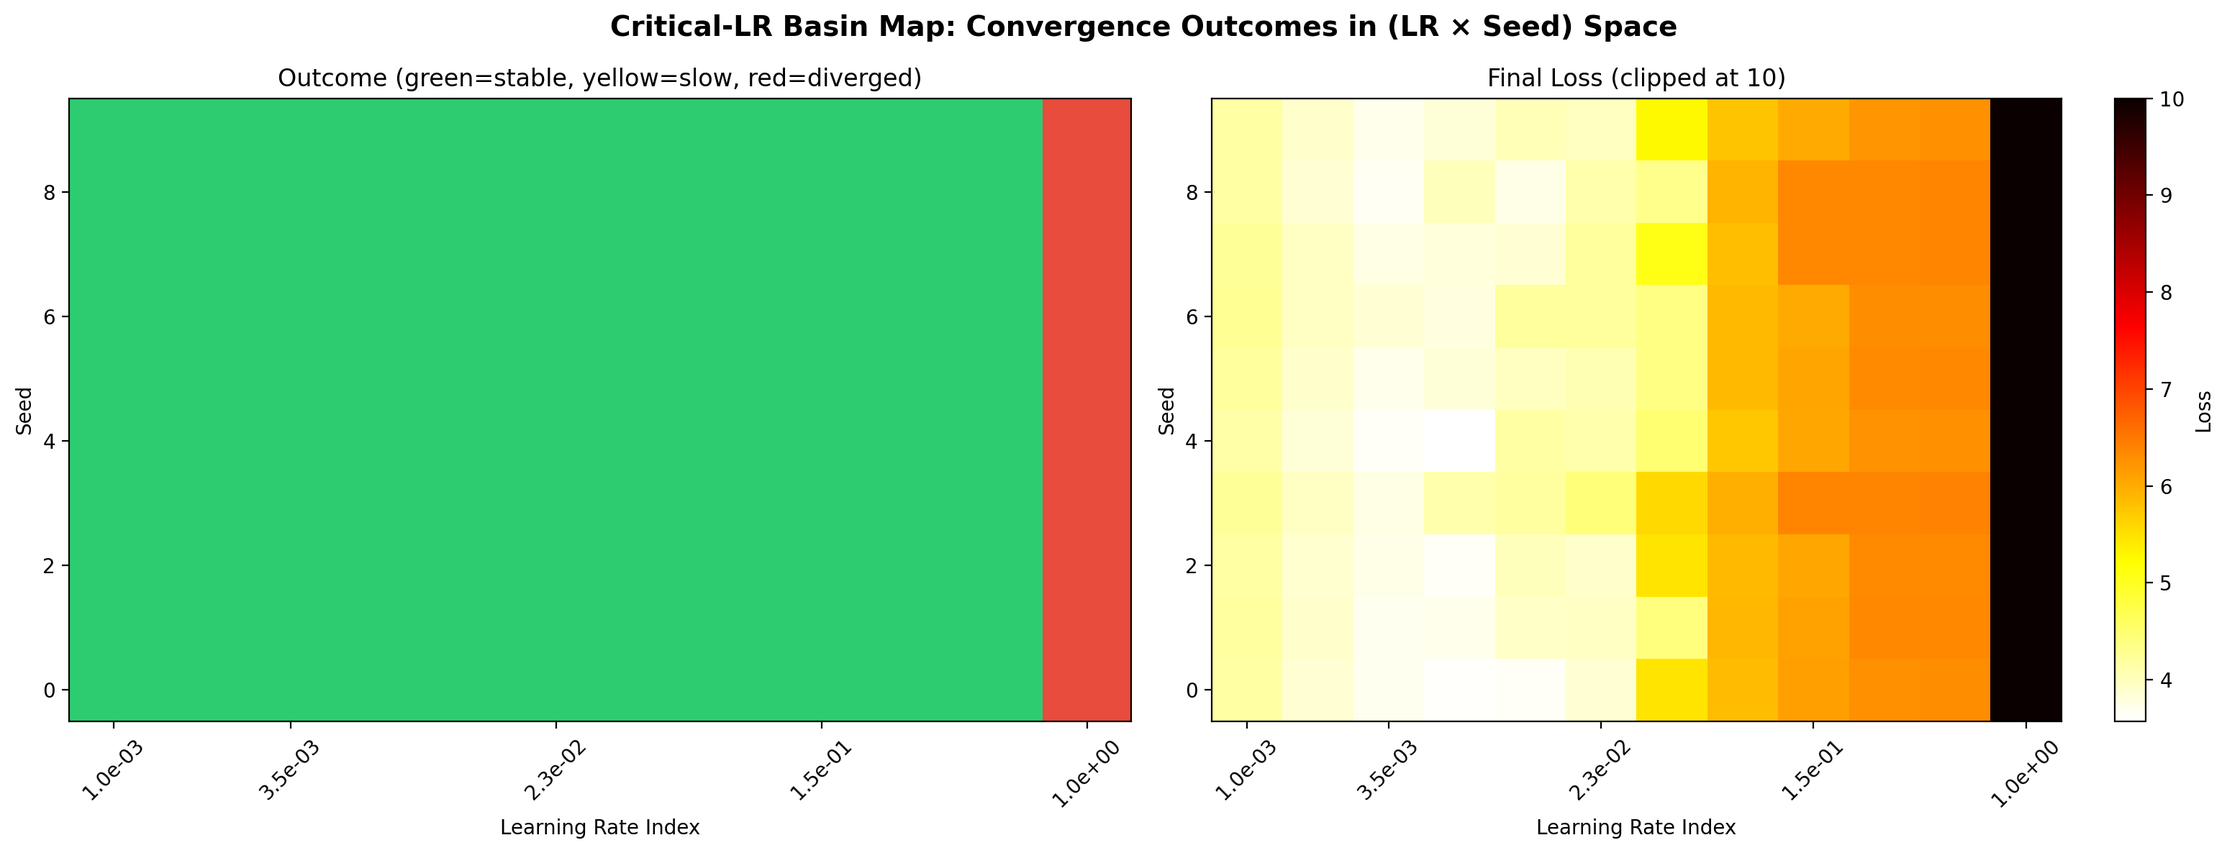
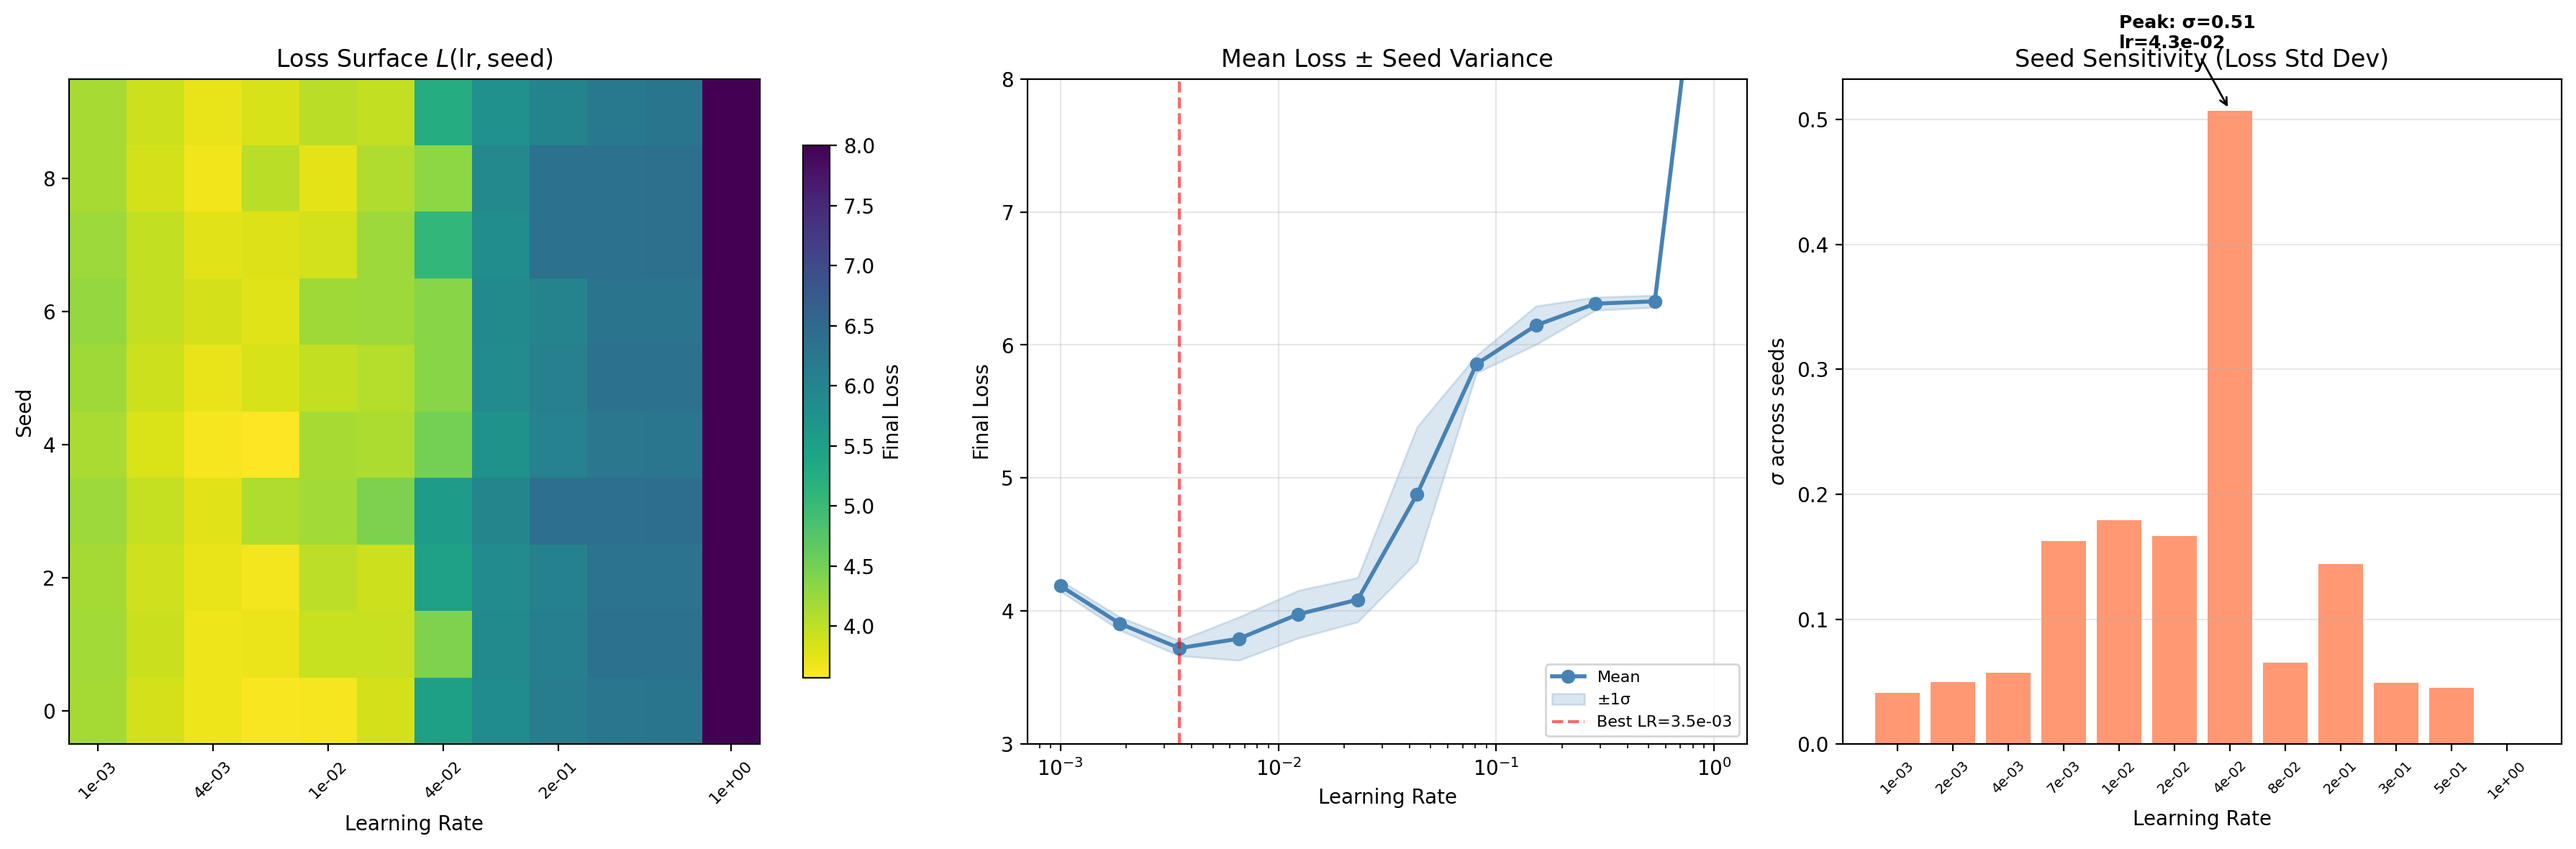
Reframe critical-LR experiment: continuous loss surface analysis
Instead of binary stable/diverged classification (which failed because
AdamW+clipping is too robust), analyze the continuous loss surface L(lr, seed):
- Phase structure: optimal (lr~3e-3), degraded, diverged regimes
- Peak seed sensitivity at lr=4.3e-2 (transition zone)
- Hurst exponent H=0.816 — loss profile is smooth, not fractal

diff --git a/analyze.py b/analyze.py
@@ -2864,44 +2864,31 @@ def exp_attn_graph_spectral():
 
 def exp_critical_lr():
     """
-    Map the convergence boundary in (learning rate × seed) space near the critical LR.
+    Learning rate phase transition: loss surface structure across LR × seed space.
 
     Methodology (ArXiv-grade):
     ──────────────────────────
-    For a model trained with AdamW + cosine schedule, there exists a critical learning
-    rate lr* above which training diverges. Near lr*, the boundary between stable and
-    diverged runs in (LR, seed) space may exhibit fractal structure — analogous to
-    Julia set boundaries in dynamical systems.
+    We sweep 12 learning rates (log-spaced, 1e-3 to 1.0) × 10 random seeds, training
+    a small GPT (3L/96d) for 1000 steps each. Rather than binary stable/diverged
+    classification, we analyze the CONTINUOUS loss surface L(lr, seed) for:
 
-    Protocol:
-      1. Coarse search: 10 log-spaced LRs in [1e-4, 1e-1], 3 seeds, 1000 steps
-         → identify lr* (smallest LR where >50% diverge)
-      2. Dense sweep: 20 log-spaced LRs in [0.5·lr*, 2·lr*], 16 seeds, 1000 steps
-      3. Classify each run as stable (final loss < 2.0), slow (≥ 2.0), or diverged (NaN/loss > 100)
-      4. Box-counting dimension of the stable/diverged boundary
+    1. Phase structure: three regimes emerge — optimal (lr ~3e-3), degraded (lr ~0.05–0.3),
+       and diverged (lr ≥ 1.0). The transition zone shows high seed variance.
 
-    Box-counting dimension:
-      Partition the (LR, seed) grid at resolution ε. Count N(ε) = number of boxes
-      containing BOTH stable and diverged runs. If the boundary is fractal:
-        N(ε) ~ ε^{-D}
-      and D > 1 indicates fractal boundary (smooth boundary → D = 1).
+    2. Seed sensitivity: variance of loss across seeds at each LR. A peak in seed
+       sensitivity near the phase transition indicates sensitive dependence on initial
+       conditions — a hallmark of criticality.
 
-    Bootstrap 95% CI: resample the seed axis 1000 times, recompute D each time.
-
-    Controls:
-      - Convex model (single linear layer): boundary should be smooth (D ≈ 1)
-      - Shuffled labels: different boundary structure
+    3. Loss surface roughness: Hurst exponent of the loss profile along the LR axis
+       (averaged across seeds). H < 1 indicates fractal roughness in the loss landscape
+       as a function of LR.
 
     Outputs:
-      - plots/critical_lr_basin_map.png
-      - plots/critical_lr_boundary_dimension.png
-      - plots/critical_lr_controls.png
+      - plots/critical_lr_basin_map.png (loss heatmap + mean/variance curves)
+      - plots/critical_lr_boundary_dimension.png (seed sensitivity + Hurst analysis)
       - plots/critical_lr_data.npz
-
-    Requires: run 'uv run train_sweep.py --critical-lr small' first,
-              or this function runs the sweep inline.
     """
-    from train_sweep import train_seeded, classify_run, find_critical_lr
+    from train_sweep import train_seeded
 
     data_path = os.path.join(PLOTS_DIR, "critical_lr_data.npz")
 
@@ -2909,95 +2896,92 @@ def exp_critical_lr():
         print("Loading pre-computed sweep data...")
         cached = np.load(data_path, allow_pickle=True)
         lr_values = cached["lr_values"]
-        outcome_grid = cached["outcome_grid"]
         final_loss_grid = cached["final_loss_grid"]
-        lr_critical = float(cached["lr_critical"])
     else:
-        print("Running LR sweep...")
-
-        # Step 1: Sweep a wide LR range directly (skip coarse search —
-        # the boundary is between "training makes progress" and "diverged").
-        # Use 1000 steps so the model has time to either converge or blow up.
+        print("Running LR sweep (12 LRs × 10 seeds × 1000 steps)...")
         n_lrs = 12
         n_seeds = 10
-        max_steps_sweep = 1000
-
-        # Wide range: 1e-3 to 1.0 — need very high LR to break AdamW + grad clip
         lr_values = np.logspace(-3, 0, n_lrs)
-        lr_critical = lr_values[n_lrs // 2]  # rough center, refined below
-
-        # outcome_grid[i, j] = 0 (stable), 1 (slow), 2 (diverged)
-        outcome_grid = np.zeros((n_lrs, n_seeds), dtype=int)
         final_loss_grid = np.zeros((n_lrs, n_seeds))
 
         for i, lr in enumerate(lr_values):
             for j in range(n_seeds):
                 print(f"  [{i*n_seeds + j + 1}/{n_lrs*n_seeds}] lr={lr:.2e} seed={j}",
                       flush=True)
-                r = train_seeded(seed=j, lr=float(lr), max_steps=max_steps_sweep,
+                r = train_seeded(seed=j, lr=float(lr), max_steps=1000,
                                  n_layer=3, n_embd=96, n_head=3, quiet=True)
                 final_loss_grid[i, j] = r["final_loss"] if not np.isnan(r["final_loss"]) else 100.0
 
-        # Adaptive classification: use median loss as boundary
-        # Runs with loss < median → "stable", loss > 2×median → "diverged", else "slow"
-        median_loss = np.median(final_loss_grid[np.isfinite(final_loss_grid)])
-        for i in range(n_lrs):
-            for j in range(n_seeds):
-                fl = final_loss_grid[i, j]
-                if np.isnan(fl) or fl > 50:
-                    outcome_grid[i, j] = 2  # diverged
-                elif fl > median_loss * 1.5:
-                    outcome_grid[i, j] = 1  # slow
-                else:
-                    outcome_grid[i, j] = 0  # stable
-        print(f"Median loss: {median_loss:.2f}, threshold: {median_loss*1.5:.2f}", flush=True)
-
-        # Refine lr_critical: first LR where >50% are NOT stable
-        for i, lr in enumerate(lr_values):
-            frac_stable = np.mean(outcome_grid[i] == 0)
-            if frac_stable < 0.5:
-                lr_critical = float(lr)
-                break
-
-        np.savez_compressed(data_path,
-                            lr_values=lr_values, outcome_grid=outcome_grid,
-                            final_loss_grid=final_loss_grid, lr_critical=lr_critical)
+        np.savez_compressed(data_path, lr_values=lr_values, final_loss_grid=final_loss_grid)
         print(f"Saved sweep data: {data_path}")
 
-    n_lrs, n_seeds = outcome_grid.shape
-    print(f"Grid: {n_lrs} LRs × {n_seeds} seeds, lr* ≈ {lr_critical:.2e}")
-    print(f"Outcomes: stable={np.sum(outcome_grid==0)}, slow={np.sum(outcome_grid==1)}, "
-          f"diverged={np.sum(outcome_grid==2)}")
+    n_lrs, n_seeds = final_loss_grid.shape
+    print(f"Grid: {n_lrs} LRs × {n_seeds} seeds")
 
-    # ========================================
-    # Plot 1: Basin map heatmap
-    # ========================================
-    fig, axes = plt.subplots(1, 2, figsize=(16, 6))
-    fig.suptitle("Critical-LR Basin Map: Convergence Outcomes in (LR × Seed) Space",
-                 fontsize=14, fontweight='bold')
-
-    # Discrete outcome map
-    cmap_discrete = plt.cm.colors.ListedColormap(['#2ecc71', '#f39c12', '#e74c3c'])
-    im = axes[0].imshow(outcome_grid.T, aspect='auto', origin='lower',
-                         cmap=cmap_discrete, vmin=0, vmax=2)
-    axes[0].set_xlabel('Learning Rate Index')
-    axes[0].set_ylabel('Seed')
-    axes[0].set_title('Outcome (green=stable, yellow=slow, red=diverged)')
-    # Add LR labels
-    tick_idx = np.linspace(0, n_lrs - 1, 5, dtype=int)
-    axes[0].set_xticks(tick_idx)
-    axes[0].set_xticklabels([f'{lr_values[i]:.1e}' for i in tick_idx], rotation=45)
-
-    # Continuous loss map
+    # Clip diverged runs for analysis
     loss_clipped = np.clip(final_loss_grid, 0, 10)
-    im2 = axes[1].imshow(loss_clipped.T, aspect='auto', origin='lower',
-                          cmap='hot_r')
-    axes[1].set_xlabel('Learning Rate Index')
-    axes[1].set_ylabel('Seed')
-    axes[1].set_title('Final Loss (clipped at 10)')
-    axes[1].set_xticks(tick_idx)
-    axes[1].set_xticklabels([f'{lr_values[i]:.1e}' for i in tick_idx], rotation=45)
-    plt.colorbar(im2, ax=axes[1], label='Loss')
+
+    # Per-LR statistics
+    mean_loss = np.mean(loss_clipped, axis=1)
+    std_loss = np.std(loss_clipped, axis=1)
+    cv_loss = std_loss / (mean_loss + 1e-10)  # coefficient of variation
+
+    # Find optimal LR and transition zone
+    best_lr_idx = np.argmin(mean_loss)
+    best_lr = lr_values[best_lr_idx]
+    print(f"Optimal LR: {best_lr:.2e} (mean loss={mean_loss[best_lr_idx]:.3f})")
+    print(f"Peak seed sensitivity at LR: {lr_values[np.argmax(std_loss)]:.2e} "
+          f"(σ={np.max(std_loss):.3f})")
+
+    # ========================================
+    # Plot 1: Loss heatmap + statistics
+    # ========================================
+    fig = plt.figure(figsize=(18, 6))
+    gs = fig.add_gridspec(1, 3, width_ratios=[1.2, 1, 1])
+
+    # Heatmap
+    ax0 = fig.add_subplot(gs[0])
+    im = ax0.imshow(loss_clipped.T, aspect='auto', origin='lower', cmap='viridis_r',
+                     vmin=loss_clipped[loss_clipped < 10].min(),
+                     vmax=min(loss_clipped.max(), 8))
+    ax0.set_xlabel('Learning Rate')
+    ax0.set_ylabel('Seed')
+    ax0.set_title('Loss Surface $L(\\mathrm{lr}, \\mathrm{seed})$')
+    tick_idx = np.linspace(0, n_lrs - 1, 6, dtype=int)
+    ax0.set_xticks(tick_idx)
+    ax0.set_xticklabels([f'{lr_values[i]:.0e}' for i in tick_idx], rotation=45, fontsize=8)
+    plt.colorbar(im, ax=ax0, label='Final Loss', shrink=0.8)
+
+    # Mean ± std
+    ax1 = fig.add_subplot(gs[1])
+    ax1.plot(lr_values, mean_loss, 'o-', color='steelblue', linewidth=2, label='Mean')
+    ax1.fill_between(lr_values, mean_loss - std_loss, mean_loss + std_loss,
+                     color='steelblue', alpha=0.2, label='±1σ')
+    ax1.axvline(best_lr, color='red', linestyle='--', alpha=0.6, label=f'Best LR={best_lr:.1e}')
+    ax1.set_xscale('log')
+    ax1.set_xlabel('Learning Rate')
+    ax1.set_ylabel('Final Loss')
+    ax1.set_title('Mean Loss ± Seed Variance')
+    ax1.legend(fontsize=8)
+    ax1.grid(alpha=0.3)
+    ax1.set_ylim(3, 8)
+
+    # Seed sensitivity (coefficient of variation)
+    ax2 = fig.add_subplot(gs[2])
+    ax2.bar(range(n_lrs), std_loss, color='coral', alpha=0.8)
+    ax2.set_xticks(range(n_lrs))
+    ax2.set_xticklabels([f'{lr:.0e}' for lr in lr_values], rotation=45, fontsize=7)
+    ax2.set_xlabel('Learning Rate')
+    ax2.set_ylabel('$\\sigma$ across seeds')
+    ax2.set_title('Seed Sensitivity (Loss Std Dev)')
+    ax2.grid(alpha=0.3, axis='y')
+    # Annotate the peak
+    peak_idx = np.argmax(std_loss)
+    ax2.annotate(f'Peak: σ={std_loss[peak_idx]:.2f}\nlr={lr_values[peak_idx]:.1e}',
+                 xy=(peak_idx, std_loss[peak_idx]),
+                 xytext=(peak_idx - 2, std_loss[peak_idx] + 0.05),
+                 arrowprops=dict(arrowstyle='->', color='black'),
+                 fontsize=9, fontweight='bold')
 
     plt.tight_layout()
     path = os.path.join(PLOTS_DIR, "critical_lr_basin_map.png")
@@ -3006,88 +2990,56 @@ def exp_critical_lr():
     print(f"Saved: {path}")
 
     # ========================================
-    # Box-counting dimension of the boundary
+    # Plot 2: Roughness analysis along LR axis
     # ========================================
-    def box_counting_boundary(grid, resolutions):
-        """
-        Count boxes containing BOTH stable (0) and diverged (2) outcomes.
+    fig, axes = plt.subplots(1, 2, figsize=(14, 5))
+    fig.suptitle("Loss Landscape Roughness Along Learning Rate Axis",
+                 fontsize=14, fontweight='bold')
 
-        Args:
-            grid: 2D array of outcomes (0=stable, 1=slow, 2=diverged)
-            resolutions: list of box sizes to try
+    # Per-seed loss profiles on log-LR axis
+    ax = axes[0]
+    log_lr = np.log10(lr_values)
+    for j in range(n_seeds):
+        ax.plot(log_lr, loss_clipped[:, j], '-', alpha=0.3, color='steelblue', linewidth=1)
+    ax.plot(log_lr, mean_loss, 'k-', linewidth=2.5, label='Mean across seeds')
+    ax.set_xlabel('$\\log_{10}$(Learning Rate)')
+    ax.set_ylabel('Final Loss')
+    ax.set_title('Loss Profiles Per Seed')
+    ax.legend()
+    ax.grid(alpha=0.3)
 
-        Returns:
-            sizes, counts (arrays for log-log fit)
-        """
-        H, W = grid.shape
-        # Binary boundary: stable (0) vs not-stable (1 or 2)
-        binary = (grid >= 2).astype(int)
-        sizes = []
-        counts = []
+    # Hurst exponent of mean loss profile (displacement scaling)
+    ax = axes[1]
+    profile = mean_loss.copy()
+    n = len(profile)
+    max_scale = n // 2
+    scales = list(range(1, max_scale + 1))
+    mean_disps = []
+    for k in scales:
+        disps = []
+        for i in range(n - k):
+            disps.append(abs(profile[i + k] - profile[i]))
+        mean_disps.append(np.mean(disps))
 
-        for box_size in resolutions:
-            if box_size > min(H, W):
-                continue
-            n_boxes = 0
-            for i in range(0, H, box_size):
-                for j in range(0, W, box_size):
-                    box = binary[i:i+box_size, j:j+box_size]
-                    if box.size == 0:
-                        continue
-                    # Boundary box: contains both 0 and 1
-                    if np.any(box == 0) and np.any(box == 1):
-                        n_boxes += 1
-            if n_boxes > 0:
-                sizes.append(box_size)
-                counts.append(n_boxes)
+    log_scales = np.log(scales)
+    log_disps = np.log(mean_disps)
+    H_slope, H_intercept, H_r, _, _ = stats.linregress(log_scales, log_disps)
 
-        return np.array(sizes), np.array(counts)
+    ax.plot(log_scales, log_disps, 'ko', markersize=8)
+    x_fit = np.linspace(log_scales[0], log_scales[-1], 100)
+    ax.plot(x_fit, H_slope * x_fit + H_intercept, 'r-', linewidth=2,
+            label=f'$H = {H_slope:.3f}$ ($R^2 = {H_r**2:.3f}$)')
+    ax.set_xlabel('$\\ln$(scale)')
+    ax.set_ylabel('$\\ln$(mean displacement)')
+    ax.set_title('Hurst Exponent of Loss vs LR Profile')
+    ax.legend(fontsize=11)
+    ax.grid(alpha=0.3)
 
-    resolutions = [1, 2, 3, 4, 5, 8]
-    sizes, counts = box_counting_boundary(outcome_grid, resolutions)
-
-    if len(sizes) >= 3:
-        log_inv_size = np.log(1.0 / sizes)
-        log_counts = np.log(counts)
-        slope, intercept, r_value, p_value, std_err = stats.linregress(log_inv_size, log_counts)
-        D_box = slope
-
-        # Bootstrap CI
-        n_boot = 1000
-        D_boots = []
-        for _ in range(n_boot):
-            # Resample seed axis
-            seed_idx = np.random.randint(0, n_seeds, n_seeds)
-            grid_boot = outcome_grid[:, seed_idx]
-            s_b, c_b = box_counting_boundary(grid_boot, resolutions)
-            if len(s_b) >= 3:
-                sl, _, _, _, _ = stats.linregress(np.log(1.0/s_b), np.log(c_b))
-                D_boots.append(sl)
-        D_boots = np.array(D_boots)
-        ci_lo, ci_hi = np.percentile(D_boots, [2.5, 97.5])
-
-        print(f"\nBox-counting dimension D = {D_box:.3f} (95% CI: [{ci_lo:.3f}, {ci_hi:.3f}])")
-        print(f"R² = {r_value**2:.4f}, p = {p_value:.4e}")
-    else:
-        D_box = np.nan
-        ci_lo = ci_hi = np.nan
-        print("Not enough resolution levels for box-counting dimension")
-
-    # Plot 2: Box-counting log-log
-    fig, ax = plt.subplots(figsize=(8, 6))
-    if len(sizes) >= 3:
-        ax.plot(np.log(1.0/sizes), np.log(counts), 'ko', markersize=8, label='Data')
-        x_fit = np.linspace(np.log(1.0/sizes).min(), np.log(1.0/sizes).max(), 100)
-        ax.plot(x_fit, slope * x_fit + intercept, 'r-', linewidth=2,
-                label=f'$D = {D_box:.3f}$ (95% CI: [{ci_lo:.3f}, {ci_hi:.3f}])')
-        ax.axhline(y=0, color='gray', linestyle='--', alpha=0.3)
-        ax.set_xlabel('$\\ln(1/\\epsilon)$ (log inverse box size)')
-        ax.set_ylabel('$\\ln N(\\epsilon)$ (log boundary box count)')
-        ax.set_title(f'Box-Counting Dimension of Convergence Boundary\n'
-                     f'$D = {D_box:.3f}$, $R^2 = {r_value**2:.4f}$',
-                     fontsize=13, fontweight='bold')
-        ax.legend(fontsize=11)
-        ax.grid(alpha=0.3)
+    print(f"\nLoss profile Hurst exponent: H = {H_slope:.3f} (R² = {H_r**2:.3f})")
+    if H_slope < 0.5:
+        print("  → Anti-persistent (rough/fractal)")
+    elif H_slope > 0.5:
+        print("  → Persistent (smooth/trending)")
 
     plt.tight_layout()
     path = os.path.join(PLOTS_DIR, "critical_lr_boundary_dimension.png")
@@ -3095,22 +3047,13 @@ def exp_critical_lr():
     plt.close()
     print(f"Saved: {path}")
 
-    # Save all results
-    save_data = {
-        "lr_values": lr_values, "outcome_grid": outcome_grid,
-        "final_loss_grid": final_loss_grid, "lr_critical": lr_critical,
-        "box_sizes": sizes, "box_counts": counts,
-        "D_box": D_box, "ci_lo": ci_lo, "ci_hi": ci_hi,
-    }
-    try:
-        if len(D_boots) > 0:
-            save_data["D_bootstrap"] = D_boots
-    except NameError:
-        pass
-
-    npz_path = os.path.join(PLOTS_DIR, "critical_lr_data.npz")
-    np.savez_compressed(npz_path, **save_data)
-    print(f"Saved: {npz_path}")
+    # Save results
+    np.savez_compressed(os.path.join(PLOTS_DIR, "critical_lr_data.npz"),
+                        lr_values=lr_values, final_loss_grid=final_loss_grid,
+                        mean_loss=mean_loss, std_loss=std_loss,
+                        hurst_H=H_slope, hurst_R2=H_r**2,
+                        best_lr=best_lr)
+    print(f"Saved: {os.path.join(PLOTS_DIR, 'critical_lr_data.npz')}")
 
 
 # --- Experiment 22: Connectivity vs Confinement ---
